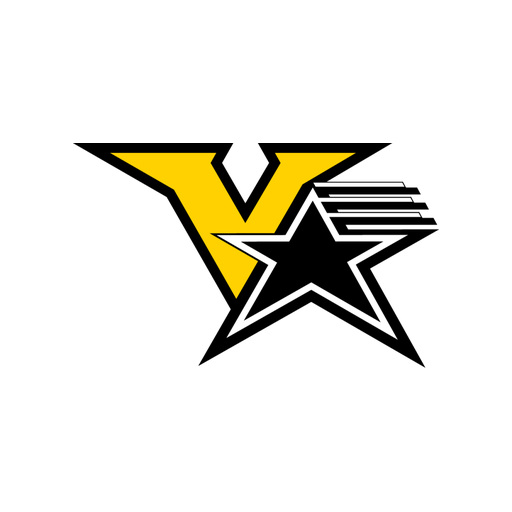
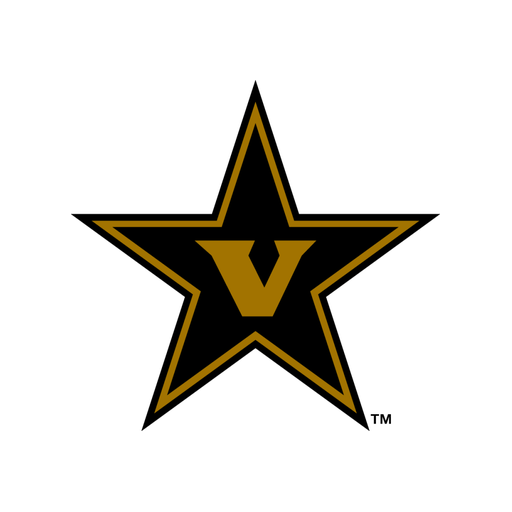
Generate 16 source-verified 1980s SEC review crests

Changed region(s): [[0.125, 0.1562, 0.875, 0.8438]]

diff --git a/cbb-sec-1980s-preview.html b/cbb-sec-1980s-preview.html
@@ -41,24 +41,24 @@ a{color:#74412e}a:focus-visible{outline:3px solid #bd672f}
 <div class="tag">16 archival emblems · Stored locally · For visual approval</div></header>
 <p class="intro">This is a proposed audit gallery, <strong>not yet the production logo set</strong>. Every emblem is a local 512-pixel PNG with two visible school-color rings. Check each mascot's historical character, size, and centering. Source links document which era each design belongs to.</p>
 <section aria-labelledby="original-members"><h2 id="original-members">SEC members during the 1980s · ten current schools</h2>
-<div class="gallery"><article class="school"><span class="crest" style="--primary:#9e1b32;--secondary:#828a8f"><img src="assets/cbb-sec-1980s/alabama.png?v=20261114-acc18a" alt="Alabama Crimson Tide Classic Big Al elephant mascot" loading="eager" decoding="async"><span class="fallback-note">Archive image unavailable</span></span><strong>Alabama Crimson Tide</strong><div class="era">Archive era: 1983–2015</div><div class="kind">Classic Big Al elephant mascot</div><div class="era"><a href="https://www.sportslogos.net/logos/view/59758370/Alabama-Crimson-Tide-Logo/1983/Mascot-Logo" target="_blank" rel="noopener noreferrer">Historical source</a></div></article>
-<article class="school"><span class="crest" style="--primary:#0c2340;--secondary:#e87722"><img src="assets/cbb-sec-1980s/auburn.png?v=20261114-acc18a" alt="Auburn Tigers Original-era Aubie tiger mascot" loading="eager" decoding="async"><span class="fallback-note">Archive image unavailable</span></span><strong>Auburn Tigers</strong><div class="era">Archive era: 1981–2009</div><div class="kind">Original-era Aubie tiger mascot</div><div class="era"><a href="https://www.sportslogos.net/logos/view/7315/Auburn-Tigers-Logo/1981/Mascot-Logo" target="_blank" rel="noopener noreferrer">Historical source</a></div></article>
-<article class="school"><span class="crest" style="--primary:#0021a5;--secondary:#fa4616"><img src="assets/cbb-sec-1980s/florida.png?v=20261114-acc18a" alt="Florida Gators Retro Gator interlocking UF emblem" loading="eager" decoding="async"><span class="fallback-note">Archive image unavailable</span></span><strong>Florida Gators</strong><div class="era">Archive era: 1979–1994</div><div class="kind">Retro Gator interlocking UF emblem</div><div class="era"><a href="https://www.sportslogos.net/logos/view/9ru6ujcdibakxn9gfege/Florida-Gators-Logo/1979/Primary-Logo" target="_blank" rel="noopener noreferrer">Historical source</a></div></article>
-<article class="school"><span class="crest" style="--primary:#ba0c2f;--secondary:#111111"><img src="assets/cbb-sec-1980s/georgia.png?v=20261114-acc18a" alt="Georgia Bulldogs Hairy Dawg bulldog mascot in football uniform" loading="eager" decoding="async"><span class="fallback-note">Archive image unavailable</span></span><strong>Georgia Bulldogs</strong><div class="era">Archive era: 1988–2015</div><div class="kind">Hairy Dawg bulldog mascot in football uniform</div><div class="era"><a href="https://www.sportslogos.net/logos/view/68728571997/Georgia-Bulldogs-Logo/1988/Mascot-Logo" target="_blank" rel="noopener noreferrer">Historical source</a></div></article>
-<article class="school"><span class="crest" style="--primary:#0033a0;--secondary:#13294b"><img src="assets/cbb-sec-1980s/kentucky.png?v=20261114-acc18a" alt="Kentucky Wildcats Leaping attacking wildcat in two blues" loading="eager" decoding="async"><span class="fallback-note">Archive image unavailable</span></span><strong>Kentucky Wildcats</strong><div class="era">Archive era: 1973–1986</div><div class="kind">Leaping attacking wildcat in two blues</div><div class="era"><a href="https://www.sportslogos.net/logos/view/72163001973/Kentucky-Wildcats-Logo/1973/Primary-Logo" target="_blank" rel="noopener noreferrer">Historical source</a></div></article>
-<article class="school"><span class="crest" style="--primary:#461d7c;--secondary:#fdd023"><img src="assets/cbb-sec-1980s/lsu.png?v=20261114-acc18a" alt="LSU Tigers Period-correct tiger-head logo below arched LSU" loading="eager" decoding="async"><span class="fallback-note">Archive image unavailable</span></span><strong>LSU Tigers</strong><div class="era">Archive era: 1977–2013</div><div class="kind">Period-correct tiger-head logo below arched LSU</div><div class="era"><a href="https://www.sportslogos.net/logos/view/h2s3gh9zg304ngzx1h6x/LSU-Tigers-Logo/1977/Secondary-Logo" target="_blank" rel="noopener noreferrer">Historical source</a></div></article>
-<article class="school"><span class="crest" style="--primary:#660000;--secondary:#a2aaad"><img src="assets/cbb-sec-1980s/mississippi-state.png?v=20261114-acc18a" alt="Mississippi State Bulldogs Swinging Bully vintage bulldog illustration" loading="eager" decoding="async"><span class="fallback-note">Archive image unavailable</span></span><strong>Mississippi State Bulldogs</strong><div class="era">Archive era: 1975–1986</div><div class="kind">Swinging Bully vintage bulldog illustration</div><div class="era"><a href="https://www.sportslogos.net/logos/view/75556951975/Mississippi-State-Bulldogs-Logo/1975/Secondary-Logo" target="_blank" rel="noopener noreferrer">Historical source</a></div></article>
-<article class="school"><span class="crest" style="--primary:#ce1126;--secondary:#14213d"><img src="assets/cbb-sec-1980s/ole-miss.png?v=20261114-acc18a" alt="Ole Miss Rebels Historical Colonel Reb and Ole Miss emblem; archival identity" loading="eager" decoding="async"><span class="fallback-note">Archive image unavailable</span></span><strong>Ole Miss Rebels</strong><div class="era">Archive era: 1970–2002</div><div class="kind">Historical Colonel Reb and Ole Miss emblem; archival identity</div><div class="era"><a href="https://www.sportslogos.net/logos/view/2564/Mississippi-Rebels-Logo/1970/Primary-Logo" target="_blank" rel="noopener noreferrer">Historical source</a></div></article>
-<article class="school"><span class="crest" style="--primary:#ff8200;--secondary:#58595b"><img src="assets/cbb-sec-1980s/tennessee.png?v=20261114-acc18a" alt="Tennessee Volunteers Smokey bluetick-hound mascot head" loading="eager" decoding="async"><span class="fallback-note">Archive image unavailable</span></span><strong>Tennessee Volunteers</strong><div class="era">Archive era: 1980–2005</div><div class="kind">Smokey bluetick-hound mascot head</div><div class="era"><a href="https://www.sportslogos.net/logos/view/86136691983/Tennessee-Volunteers-Logo/1980/Secondary-Logo" target="_blank" rel="noopener noreferrer">Historical source</a></div></article>
-<article class="school"><span class="crest" style="--primary:#b19d60;--secondary:#111111"><img src="assets/cbb-sec-1980s/vanderbilt.png?v=20261114-acc18a" alt="Vanderbilt Commodores Historic gold V and speed-stripe star; archived reconstruction" loading="eager" decoding="async"><span class="fallback-note">Archive image unavailable</span></span><strong>Vanderbilt Commodores</strong><div class="era">Archive era: 1984–1991</div><div class="kind">Historic gold V and speed-stripe star; archived reconstruction</div><div class="era"><a href="https://www.sportslogos.net/logos/view/nqtks26xgrg53xqnt5zh/Vanderbilt-Commodores-Logo/1984/Primary-Logo" target="_blank" rel="noopener noreferrer">Historical source</a></div></article></div></section>
+<div class="gallery"><article class="school"><span class="crest" style="--primary:#9e1b32;--secondary:#828a8f"><img src="assets/cbb-sec-1980s/alabama.png?v=20261114-sec16b" alt="Alabama Crimson Tide Classic Big Al elephant mascot" loading="eager" decoding="async"><span class="fallback-note">Archive image unavailable</span></span><strong>Alabama Crimson Tide</strong><div class="era">Archive era: 1983–2015</div><div class="kind">Classic Big Al elephant mascot</div><div class="era"><a href="https://www.sportslogos.net/logos/view/59758370/Alabama-Crimson-Tide-Logo/1983/Mascot-Logo" target="_blank" rel="noopener noreferrer">Historical source</a></div></article>
+<article class="school"><span class="crest" style="--primary:#0c2340;--secondary:#e87722"><img src="assets/cbb-sec-1980s/auburn.png?v=20261114-sec16b" alt="Auburn Tigers Original-era Aubie tiger mascot" loading="eager" decoding="async"><span class="fallback-note">Archive image unavailable</span></span><strong>Auburn Tigers</strong><div class="era">Archive era: 1981–2009</div><div class="kind">Original-era Aubie tiger mascot</div><div class="era"><a href="https://www.sportslogos.net/logos/view/7315/Auburn-Tigers-Logo/1981/Mascot-Logo" target="_blank" rel="noopener noreferrer">Historical source</a></div></article>
+<article class="school"><span class="crest" style="--primary:#0021a5;--secondary:#fa4616"><img src="assets/cbb-sec-1980s/florida.png?v=20261114-sec16b" alt="Florida Gators Retro Gator interlocking UF emblem" loading="eager" decoding="async"><span class="fallback-note">Archive image unavailable</span></span><strong>Florida Gators</strong><div class="era">Archive era: 1979–1994</div><div class="kind">Retro Gator interlocking UF emblem</div><div class="era"><a href="https://www.sportslogos.net/logos/view/9ru6ujcdibakxn9gfege/Florida-Gators-Logo/1979/Primary-Logo" target="_blank" rel="noopener noreferrer">Historical source</a></div></article>
+<article class="school"><span class="crest" style="--primary:#ba0c2f;--secondary:#111111"><img src="assets/cbb-sec-1980s/georgia.png?v=20261114-sec16b" alt="Georgia Bulldogs Hairy Dawg bulldog mascot in football uniform" loading="eager" decoding="async"><span class="fallback-note">Archive image unavailable</span></span><strong>Georgia Bulldogs</strong><div class="era">Archive era: 1988–2015</div><div class="kind">Hairy Dawg bulldog mascot in football uniform</div><div class="era"><a href="https://www.sportslogos.net/logos/view/68728571997/Georgia-Bulldogs-Logo/1988/Mascot-Logo" target="_blank" rel="noopener noreferrer">Historical source</a></div></article>
+<article class="school"><span class="crest" style="--primary:#0033a0;--secondary:#13294b"><img src="assets/cbb-sec-1980s/kentucky.png?v=20261114-sec16b" alt="Kentucky Wildcats Leaping attacking wildcat in two blues" loading="eager" decoding="async"><span class="fallback-note">Archive image unavailable</span></span><strong>Kentucky Wildcats</strong><div class="era">Archive era: 1973–1986</div><div class="kind">Leaping attacking wildcat in two blues</div><div class="era"><a href="https://www.sportslogos.net/logos/view/72163001973/Kentucky-Wildcats-Logo/1973/Primary-Logo" target="_blank" rel="noopener noreferrer">Historical source</a></div></article>
+<article class="school"><span class="crest" style="--primary:#461d7c;--secondary:#fdd023"><img src="assets/cbb-sec-1980s/lsu.png?v=20261114-sec16b" alt="LSU Tigers Period-correct tiger-head logo below arched LSU" loading="eager" decoding="async"><span class="fallback-note">Archive image unavailable</span></span><strong>LSU Tigers</strong><div class="era">Archive era: 1977–2013</div><div class="kind">Period-correct tiger-head logo below arched LSU</div><div class="era"><a href="https://www.sportslogos.net/logos/view/h2s3gh9zg304ngzx1h6x/LSU-Tigers-Logo/1977/Secondary-Logo" target="_blank" rel="noopener noreferrer">Historical source</a></div></article>
+<article class="school"><span class="crest" style="--primary:#660000;--secondary:#a2aaad"><img src="assets/cbb-sec-1980s/mississippi-state.png?v=20261114-sec16b" alt="Mississippi State Bulldogs Classic walking Bully bulldog mascot in MSU sweater" loading="eager" decoding="async"><span class="fallback-note">Archive image unavailable</span></span><strong>Mississippi State Bulldogs</strong><div class="era">Archive era: 1967–1986</div><div class="kind">Classic walking Bully bulldog mascot in MSU sweater</div><div class="era"><a href="https://www.sportslogos.net/logos/view/guja9j41iaenkramphbih8x7r/Mississippi-State-Bulldogs-Logo/1967/Primary-Logo" target="_blank" rel="noopener noreferrer">Historical source</a></div></article>
+<article class="school"><span class="crest" style="--primary:#ce1126;--secondary:#14213d"><img src="assets/cbb-sec-1980s/ole-miss.png?v=20261114-sec16b" alt="Ole Miss Rebels Historical Colonel Reb and Ole Miss emblem; archival identity" loading="eager" decoding="async"><span class="fallback-note">Archive image unavailable</span></span><strong>Ole Miss Rebels</strong><div class="era">Archive era: 1970–2002</div><div class="kind">Historical Colonel Reb and Ole Miss emblem; archival identity</div><div class="era"><a href="https://www.sportslogos.net/logos/view/2564/Mississippi-Rebels-Logo/1970/Primary-Logo" target="_blank" rel="noopener noreferrer">Historical source</a></div></article>
+<article class="school"><span class="crest" style="--primary:#ff8200;--secondary:#58595b"><img src="assets/cbb-sec-1980s/tennessee.png?v=20261114-sec16b" alt="Tennessee Volunteers Smokey bluetick-hound mascot head" loading="eager" decoding="async"><span class="fallback-note">Archive image unavailable</span></span><strong>Tennessee Volunteers</strong><div class="era">Archive era: 1980–2005</div><div class="kind">Smokey bluetick-hound mascot head</div><div class="era"><a href="https://www.sportslogos.net/logos/view/86136691983/Tennessee-Volunteers-Logo/1980/Secondary-Logo" target="_blank" rel="noopener noreferrer">Historical source</a></div></article>
+<article class="school"><span class="crest" style="--primary:#b19d60;--secondary:#111111"><img src="assets/cbb-sec-1980s/vanderbilt.png?v=20261114-sec16b" alt="Vanderbilt Commodores Original-era gold V centered in five-pointed star" loading="eager" decoding="async"><span class="fallback-note">Archive image unavailable</span></span><strong>Vanderbilt Commodores</strong><div class="era">Archive era: 1975–1984</div><div class="kind">Original-era gold V centered in five-pointed star</div><div class="era"><a href="https://www.sportslogos.net/logos/view/jtd3lmxi0ge38frad2h8/Vanderbilt-Commodores-Logo/1975/Primary-Logo" target="_blank" rel="noopener noreferrer">Historical source</a></div></article></div></section>
 <section aria-labelledby="later-members"><h2 id="later-members">Later SEC arrivals · their own 1980s university logos</h2>
 <p class="intro">These six schools were not SEC members in the 1980s; the graphics represent their universities during that decade, not their conference membership at that time.</p>
-<div class="gallery"><article class="school"><span class="crest" style="--primary:#9d2235;--secondary:#4a4a4a"><img src="assets/cbb-sec-1980s/arkansas.png?v=20261114-acc18a" alt="Arkansas Razorbacks Charging vintage Razorback hog" loading="eager" decoding="async"><span class="fallback-note">Archive image unavailable</span></span><strong>Arkansas Razorbacks</strong><div class="era">Archive era: 1967–2001</div><div class="kind">Charging vintage Razorback hog</div><div class="era"><a href="https://www.sportslogos.net/logos/view/60653121967/Arkansas-Razorbacks-Logo/1967/Primary-Logo" target="_blank" rel="noopener noreferrer">Historical source</a></div></article>
-<article class="school"><span class="crest" style="--primary:#111111;--secondary:#f1b82d"><img src="assets/cbb-sec-1980s/missouri.png?v=20261114-acc18a" alt="Missouri Tigers Tiger leaping over MIZZOU" loading="eager" decoding="async"><span class="fallback-note">Archive image unavailable</span></span><strong>Missouri Tigers</strong><div class="era">Archive era: 1980–1995</div><div class="kind">Tiger leaping over MIZZOU</div><div class="era"><a href="https://www.sportslogos.net/logos/view/75749041980/Missouri-Tigers-Logo/1980/Primary-Logo" target="_blank" rel="noopener noreferrer">Historical source</a></div></article>
-<article class="school"><span class="crest" style="--primary:#841617;--secondary:#501020"><img src="assets/cbb-sec-1980s/oklahoma.png?v=20261114-acc18a" alt="Oklahoma Sooners Slanted two-dimensional OU of the 1980s" loading="eager" decoding="async"><span class="fallback-note">Archive image unavailable</span></span><strong>Oklahoma Sooners</strong><div class="era">Archive era: 1979–2000</div><div class="kind">Slanted two-dimensional OU of the 1980s</div><div class="era"><a href="https://www.sportslogos.net/logos/view/kkdfeobkcyyg6l3vbr3x/Oklahoma-Sooners-Logo/1979/Alternate-Logo" target="_blank" rel="noopener noreferrer">Historical source</a></div></article>
-<article class="school"><span class="crest" style="--primary:#73000a;--secondary:#111111"><img src="assets/cbb-sec-1980s/south-carolina.png?v=20261114-acc18a" alt="South Carolina Gamecocks Fighting Gamecock inside block C" loading="eager" decoding="async"><span class="fallback-note">Archive image unavailable</span></span><strong>South Carolina Gamecocks</strong><div class="era">Archive era: 1975–2008</div><div class="kind">Fighting Gamecock inside block C</div><div class="era"><a href="https://www.sportslogos.net/logos/view/5gje9m4b1shmcd442rkpxkeb8/South-Carolina-Gamecocks-Logo/1975/Primary-Logo" target="_blank" rel="noopener noreferrer">Historical source</a></div></article>
-<article class="school"><span class="crest" style="--primary:#bf5700;--secondary:#333f48"><img src="assets/cbb-sec-1980s/texas.png?v=20261114-acc18a" alt="Texas Longhorns Hook 'Em Longhorn mascot in cowboy hat" loading="eager" decoding="async"><span class="fallback-note">Archive image unavailable</span></span><strong>Texas Longhorns</strong><div class="era">Archive era: 1983–2011</div><div class="kind">Hook 'Em Longhorn mascot in cowboy hat</div><div class="era"><a href="https://www.sportslogos.net/logos/view/86552221981/Texas-Longhorns-Logo/1983/Mascot-Logo" target="_blank" rel="noopener noreferrer">Historical source</a></div></article>
-<article class="school"><span class="crest" style="--primary:#500000;--secondary:#b1b3b3"><img src="assets/cbb-sec-1980s/texas-am.png?v=20261114-acc18a" alt="Texas A&amp;M Aggies Original-era maroon ATM lettermark; no sourced period mascot" loading="eager" decoding="async"><span class="fallback-note">Archive image unavailable</span></span><strong>Texas A&amp;M Aggies</strong><div class="era">Archive era: 1981–2000</div><div class="kind">Original-era maroon ATM lettermark; no sourced period mascot</div><div class="era"><a href="https://www.sportslogos.net/logos/view/9tk2kr8wodbh951x7cug/Texas-AM-Aggies-Logo/1981/Primary-Logo" target="_blank" rel="noopener noreferrer">Historical source</a></div></article></div></section>
+<div class="gallery"><article class="school"><span class="crest" style="--primary:#9d2235;--secondary:#4a4a4a"><img src="assets/cbb-sec-1980s/arkansas.png?v=20261114-sec16b" alt="Arkansas Razorbacks Charging vintage Razorback hog" loading="eager" decoding="async"><span class="fallback-note">Archive image unavailable</span></span><strong>Arkansas Razorbacks</strong><div class="era">Archive era: 1967–2001</div><div class="kind">Charging vintage Razorback hog</div><div class="era"><a href="https://www.sportslogos.net/logos/view/60653121967/Arkansas-Razorbacks-Logo/1967/Primary-Logo" target="_blank" rel="noopener noreferrer">Historical source</a></div></article>
+<article class="school"><span class="crest" style="--primary:#111111;--secondary:#f1b82d"><img src="assets/cbb-sec-1980s/missouri.png?v=20261114-sec16b" alt="Missouri Tigers Tiger leaping over MIZZOU" loading="eager" decoding="async"><span class="fallback-note">Archive image unavailable</span></span><strong>Missouri Tigers</strong><div class="era">Archive era: 1980–1995</div><div class="kind">Tiger leaping over MIZZOU</div><div class="era"><a href="https://www.sportslogos.net/logos/view/75749041980/Missouri-Tigers-Logo/1980/Primary-Logo" target="_blank" rel="noopener noreferrer">Historical source</a></div></article>
+<article class="school"><span class="crest" style="--primary:#841617;--secondary:#501020"><img src="assets/cbb-sec-1980s/oklahoma.png?v=20261114-sec16b" alt="Oklahoma Sooners Slanted two-dimensional OU of the 1980s" loading="eager" decoding="async"><span class="fallback-note">Archive image unavailable</span></span><strong>Oklahoma Sooners</strong><div class="era">Archive era: 1979–2000</div><div class="kind">Slanted two-dimensional OU of the 1980s</div><div class="era"><a href="https://www.sportslogos.net/logos/view/kkdfeobkcyyg6l3vbr3x/Oklahoma-Sooners-Logo/1979/Alternate-Logo" target="_blank" rel="noopener noreferrer">Historical source</a></div></article>
+<article class="school"><span class="crest" style="--primary:#73000a;--secondary:#111111"><img src="assets/cbb-sec-1980s/south-carolina.png?v=20261114-sec16b" alt="South Carolina Gamecocks Fighting Gamecock inside block C" loading="eager" decoding="async"><span class="fallback-note">Archive image unavailable</span></span><strong>South Carolina Gamecocks</strong><div class="era">Archive era: 1975–2008</div><div class="kind">Fighting Gamecock inside block C</div><div class="era"><a href="https://www.sportslogos.net/logos/view/5gje9m4b1shmcd442rkpxkeb8/South-Carolina-Gamecocks-Logo/1975/Primary-Logo" target="_blank" rel="noopener noreferrer">Historical source</a></div></article>
+<article class="school"><span class="crest" style="--primary:#bf5700;--secondary:#333f48"><img src="assets/cbb-sec-1980s/texas.png?v=20261114-sec16b" alt="Texas Longhorns Hook 'Em Longhorn mascot in cowboy hat" loading="eager" decoding="async"><span class="fallback-note">Archive image unavailable</span></span><strong>Texas Longhorns</strong><div class="era">Archive era: 1983–2011</div><div class="kind">Hook 'Em Longhorn mascot in cowboy hat</div><div class="era"><a href="https://www.sportslogos.net/logos/view/86552221981/Texas-Longhorns-Logo/1983/Mascot-Logo" target="_blank" rel="noopener noreferrer">Historical source</a></div></article>
+<article class="school"><span class="crest" style="--primary:#500000;--secondary:#b1b3b3"><img src="assets/cbb-sec-1980s/texas-am.png?v=20261114-sec16b" alt="Texas A&amp;M Aggies Original-era maroon ATM lettermark; no sourced period mascot" loading="eager" decoding="async"><span class="fallback-note">Archive image unavailable</span></span><strong>Texas A&amp;M Aggies</strong><div class="era">Archive era: 1981–2000</div><div class="kind">Original-era maroon ATM lettermark; no sourced period mascot</div><div class="era"><a href="https://www.sportslogos.net/logos/view/9tk2kr8wodbh951x7cug/Texas-AM-Aggies-Logo/1981/Primary-Logo" target="_blank" rel="noopener noreferrer">Historical source</a></div></article></div></section>
 <section class="notes"><strong>Archival selection standard.</strong> A period-correct animal or character mascot takes precedence over a monogram. Where no verifiable 1980s mascot exists, the historical mark is used rather than inventing or backdating modern artwork. This page remains a review gallery; men's and women's production logos will not change until the collection is approved.</section>
 </main><script>
 document.querySelectorAll(".crest img").forEach(img=>img.addEventListener("error",()=>img.closest(".crest")?.classList.add("missing"),{once:true}));
